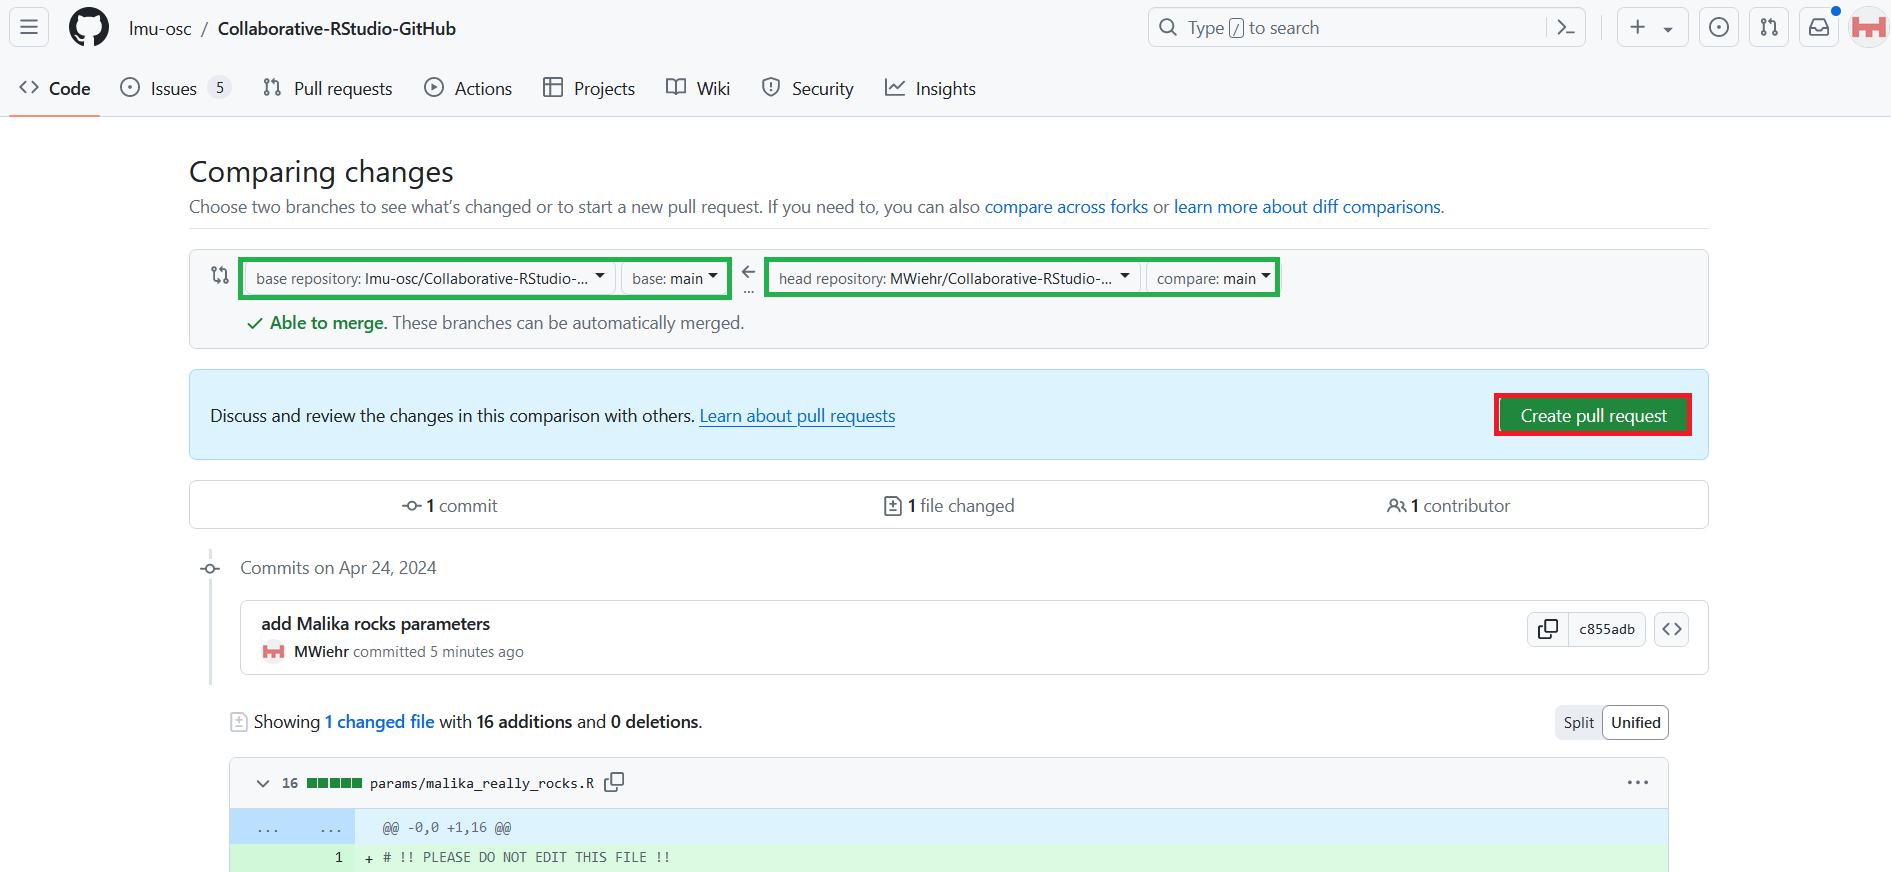
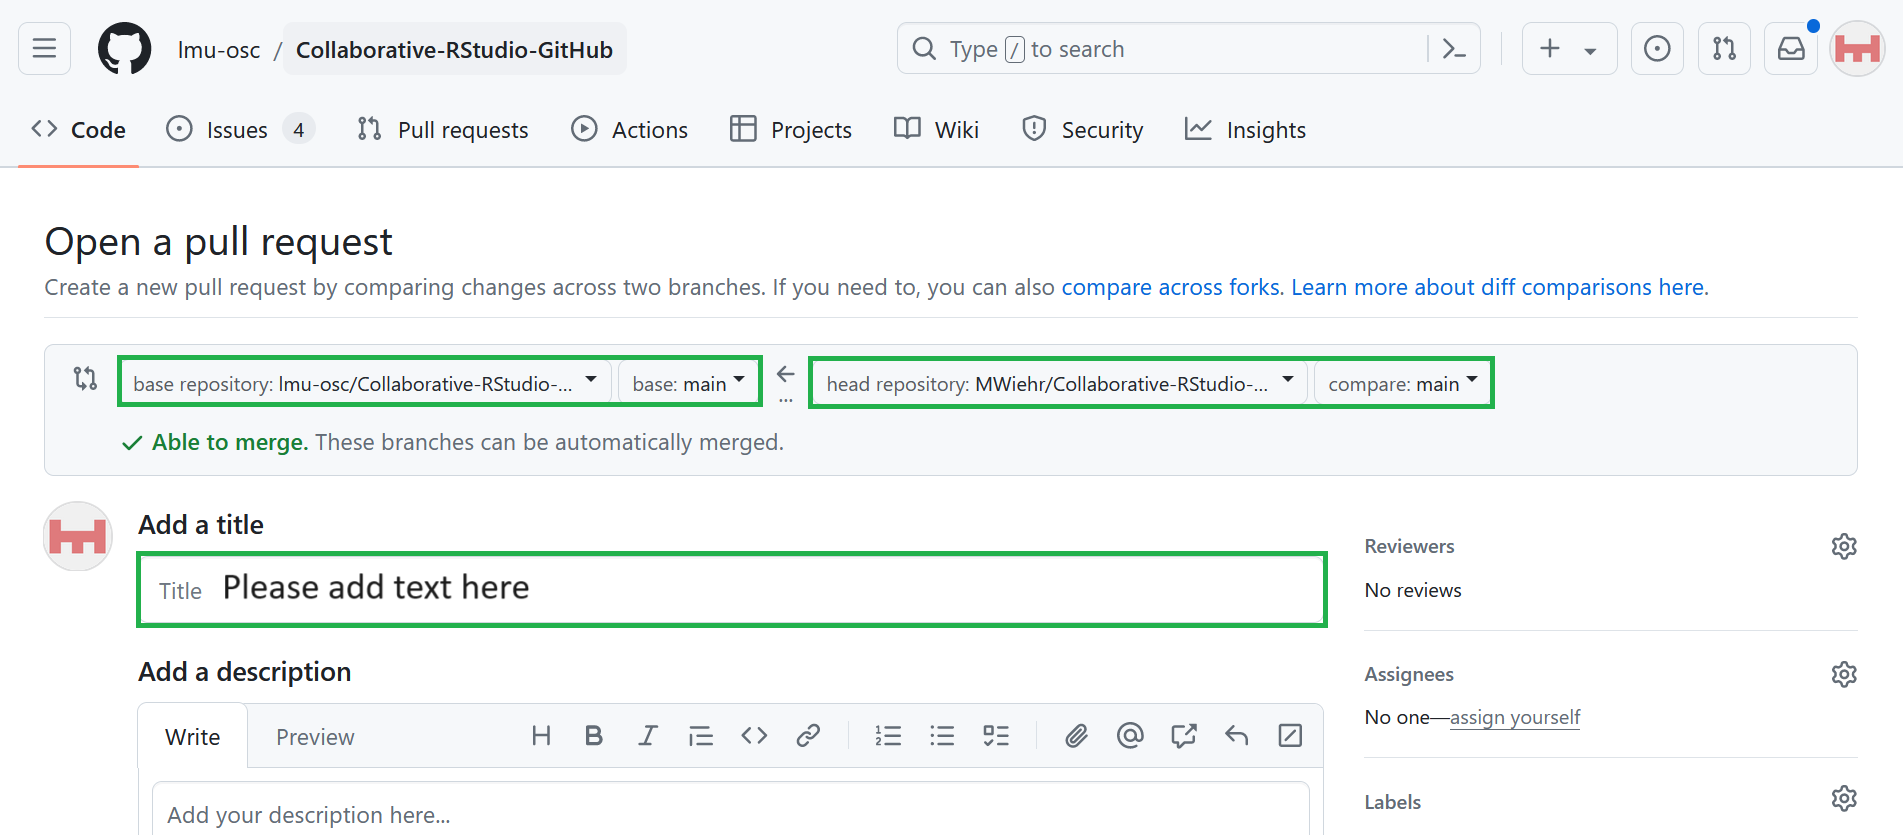
update screenshot and split between pull request and merge

diff --git a/pull-request.md b/pull-request.md
@@ -6,17 +6,20 @@
 
     ![](./assets/pull-request-button.png)
 
-2. **GitHub**: **make sure the base repository is the LMU Open Science Center's original one and the head fork is yours**, both set on their main branch (these repositories should only have one branch anyway called 'main'. Branches are diverging versions of a file *within* a repository - we will not cover this concept today). Check that your requested merge does not create any conflict. If all is good, click on `Create pull request`
+<br />
+
+
+2. **GitHub**: **make sure the base repository is the LMU Open Science Center's original one and the head fork is yours**, both set on their main branch (these repositories should only have one branch anyway called 'main'. Branches are diverging versions of a file *within* a repository - we will not cover this concept today). Check that your requested merge does not create any conflict. In addition, **write an informative message**, explaining your changes to your collaborator, the author of the original repository. Click on `Create pull request`
 
     ![](./assets/create-pull-request.png)
 
-3. **GitHub**: write an informative message, explaining your changes to your collaborator, the author of the original repository. Click on `Create pull request`
+<br />
 
-    ![](./assets/pull-request-message.png)
 
-4. **GitHub**: check to see your collaborator's response to your request and check the original repository to see your merged changes. Most likely it will be a thumbs up! But your collaborator might also **request a correction** if they spot an error. If this session is live: go see the instructor and ask them to watch while they merge your pull request.
+3. **GitHub**: you can now see a conversation tab around your pull request in the repository of the original owner: 
 
-    ![](./assets/pull-request-success.png)
+    <img src="assets/created-pull-request.png" width="550">
+
 
 ***
 
